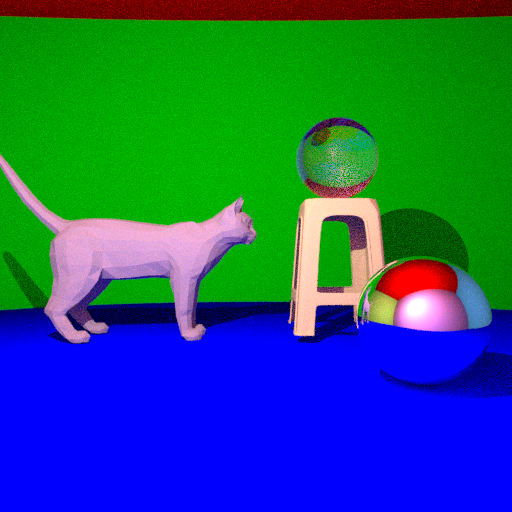
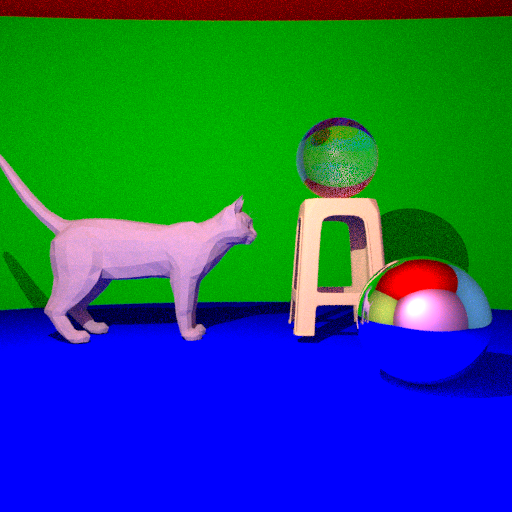
BVH modification

diff --git a/RayTracer/main.cpp b/RayTracer/main.cpp
@@ -267,7 +267,7 @@ public:
 					list_size++;
 				}
 			} else{
-					for (int i=0; i<indices.size(); i++){
+					for (int i=cur->start; i< cur->end; i++){
 						const Vector &A = vertices[indices[i].vtxi];
 						const Vector &B = vertices[indices[i].vtxj];
 						const Vector &C = vertices[indices[i].vtxk];
@@ -304,10 +304,9 @@ public:
 							N = (-1.)*N;
 						}
 					}
-					return hasInter;
 			}
 		}
-		return false;
+		return hasInter;
 	}
 
 	void readOBJ(const char* obj) {
